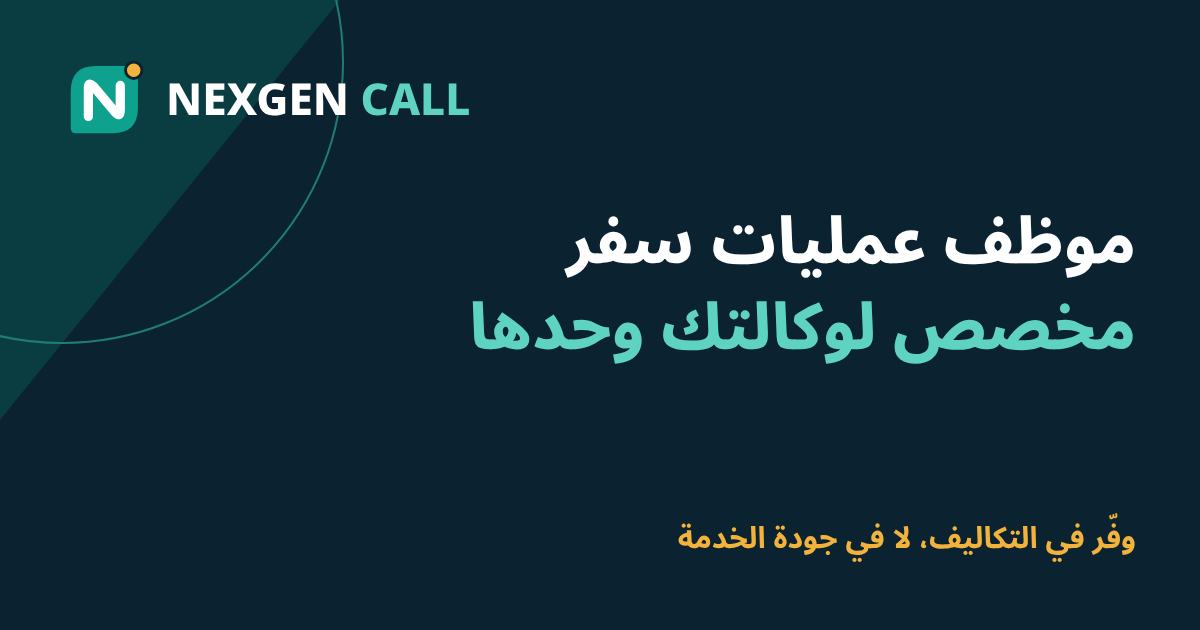
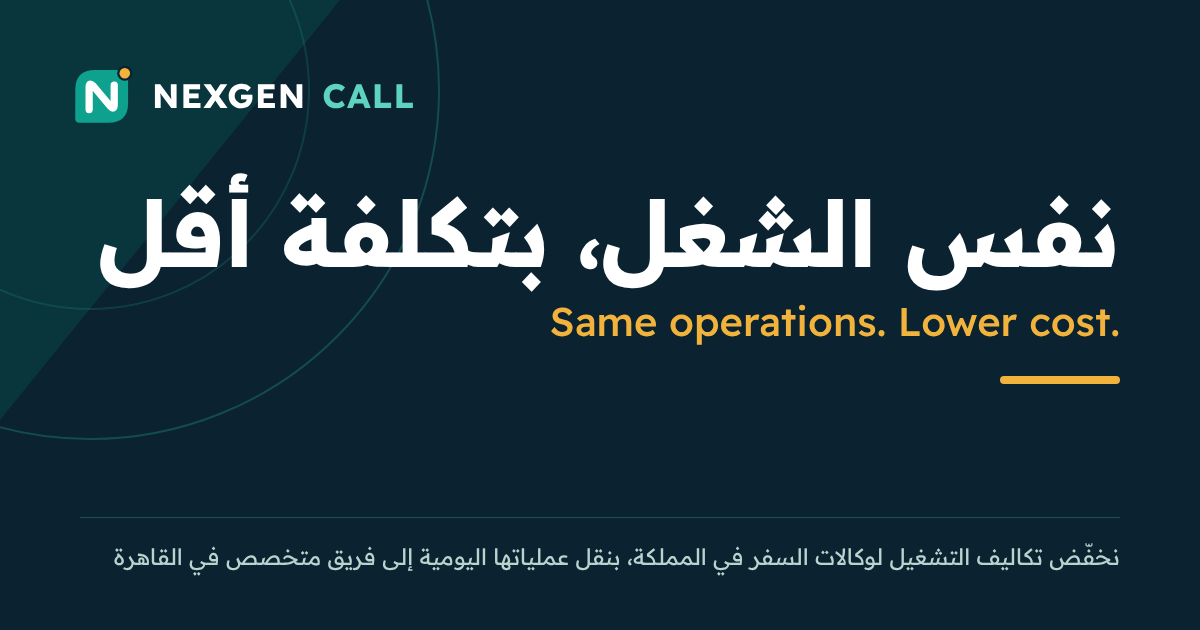
Apply slogan 'Same operations. Lower cost.' and company goal; new share image
Claude-Session: https://claude.ai/code/session_01M4KTniXxeey84DMqoAVx7F

diff --git a/index.html b/index.html
@@ -3,13 +3,13 @@
 <head>
 <meta charset="utf-8">
 <meta name="viewport" content="width=device-width, initial-scale=1">
-<title>NEXGEN CALL | موظف عمليات سفر مخصص لوكالتك</title>
-<meta name="description" content="NEXGEN CALL شريك تشغيل لوكالات السفر السعودية: موظف عمليات سفر مخصص لوكالتك يعمل على أنظمتك، مع إشراف ومراجعة جودة وتقارير وبديل جاهز. احسب التكلفة الحقيقية لموظفك الحالي.">
+<title>NEXGEN CALL | نفس الشغل، بتكلفة أقل</title>
+<meta name="description" content="NEXGEN CALL | نفس الشغل، بتكلفة أقل. نخفّض تكاليف التشغيل لوكالات السفر في المملكة، بنقل عملياتها اليومية إلى فريق متخصص في القاهرة، مع بقاء القرار في يد الوكالة. موظف ثابت مخصص لوكالتك في القاهرة للإصدار والاسترداد والفنادق وما بعد البيع.">
 <link rel="canonical" href="https://travelhh.github.io/nexgen-call/">
 <meta name="robots" content="index,follow">
 <meta name="keywords" content="تعهيد عمليات السفر, موظف تذاكر عن بعد, إصدار تذاكر, أماديوس, وكالات السفر السعودية, back office, ticketing outsourcing, travel BPO, NEXGEN CALL">
-<meta property="og:title" content="NEXGEN CALL | موظف عمليات سفر مخصص لوكالتك">
-<meta property="og:description" content="تذاكر الطيران، الفنادق، ما بعد البيع والمكتب الخلفي لوكالات السفر السعودية. وفّر في التكاليف، لا في جودة الخدمة.">
+<meta property="og:title" content="NEXGEN CALL | نفس الشغل، بتكلفة أقل">
+<meta property="og:description" content="نخفّض تكاليف التشغيل لوكالات السفر في المملكة، بنقل عملياتها اليومية إلى فريق متخصص في القاهرة، مع بقاء القرار في يد الوكالة.">
 <meta property="og:image" content="https://travelhh.github.io/nexgen-call/og.png">
 <meta property="og:url" content="https://travelhh.github.io/nexgen-call/">
 <meta property="og:type" content="website">
@@ -17,10 +17,10 @@
 <meta property="og:locale:alternate" content="en_US">
 <meta property="og:site_name" content="NEXGEN CALL">
 <meta name="twitter:card" content="summary_large_image">
-<meta name="twitter:title" content="NEXGEN CALL | موظف عمليات سفر مخصص لوكالتك">
+<meta name="twitter:title" content="NEXGEN CALL | نفس الشغل، بتكلفة أقل">
 <meta name="twitter:image" content="https://travelhh.github.io/nexgen-call/og.png">
 <meta name="theme-color" content="#0B2230">
-<script type="application/ld+json">{"@context":"https://schema.org","@type":"ProfessionalService","name":"NEXGEN CALL","alternateName":["نكست جن كول","NexCall Services"],"url":"https://travelhh.github.io/nexgen-call/","logo":"https://travelhh.github.io/nexgen-call/logo.svg","image":"https://travelhh.github.io/nexgen-call/og.png","description":"Managed travel operations partner for Saudi travel agencies: dedicated Egypt-based specialists for ticketing, reissues and refunds, hotel bookings, after-sales and back office.","telephone":"+201013749484","email":"nexgencallco@gmail.com","address":{"@type":"PostalAddress","addressLocality":"6th of October City","addressRegion":"Giza","addressCountry":"EG"},"areaServed":{"@type":"Country","name":"Saudi Arabia"},"availableLanguage":["ar","en"],"openingHoursSpecification":{"@type":"OpeningHoursSpecification","dayOfWeek":["Saturday","Sunday","Monday","Tuesday","Wednesday","Thursday"],"opens":"09:00","closes":"17:00"},"sameAs":["https://www.linkedin.com/company/nexgen-call/"],"knowsAbout":["Amadeus GDS","NDC","Air ticketing","Refunds and reissues","Hotel reservations","Travel back office"]}</script>
+<script type="application/ld+json">{"@context":"https://schema.org","@type":"ProfessionalService","name":"NEXGEN CALL","slogan":"Same operations. Lower cost.","alternateName":["نكست جن كول","NexCall Services"],"url":"https://travelhh.github.io/nexgen-call/","logo":"https://travelhh.github.io/nexgen-call/logo.svg","image":"https://travelhh.github.io/nexgen-call/og.png","description":"Same operations. Lower cost. NEXGEN CALL cuts operating costs for Saudi travel agencies by moving their daily operations to a dedicated specialist in its Cairo team: ticketing, reissues and refunds, hotel bookings, after-sales and back office.","telephone":"+201013749484","email":"nexgencallco@gmail.com","address":{"@type":"PostalAddress","addressLocality":"6th of October City","addressRegion":"Giza","addressCountry":"EG"},"areaServed":{"@type":"Country","name":"Saudi Arabia"},"availableLanguage":["ar","en"],"openingHoursSpecification":{"@type":"OpeningHoursSpecification","dayOfWeek":["Saturday","Sunday","Monday","Tuesday","Wednesday","Thursday"],"opens":"09:00","closes":"17:00"},"sameAs":["https://www.linkedin.com/company/nexgen-call/"],"knowsAbout":["Amadeus GDS","NDC","Air ticketing","Refunds and reissues","Hotel reservations","Travel back office"]}</script>
 <link rel="icon" href="logo.svg" type="image/svg+xml">
 <link rel="preconnect" href="https://fonts.googleapis.com"><link rel="preconnect" href="https://fonts.gstatic.com" crossorigin>
 <link href="https://fonts.googleapis.com/css2?family=Readex+Pro:wght@300;500;700&family=IBM+Plex+Sans+Arabic:wght@400;500;600&family=IBM+Plex+Mono:wght@500;600&display=swap" rel="stylesheet">
@@ -66,6 +66,8 @@ header.scrolled{border-bottom-color:var(--line)}
 .hero-grid{display:grid;grid-template-columns:minmax(0,1fr) minmax(0,1.08fr);gap:56px;align-items:center}
 .hero h1{font-size:clamp(38px,5.2vw,64px);font-weight:700;line-height:1.2;max-width:13ch}
 .hero .lede{font-size:20px;margin-top:22px}
+.h1-en{font-family:var(--disp);font-weight:500;font-size:clamp(19px,2vw,24px);color:var(--teal-d);margin-top:10px;direction:ltr;text-align:right}
+.goal{padding:0 0 8px}.goal p{font-family:var(--disp);font-weight:500;font-size:clamp(21px,2.4vw,28px);line-height:1.6;max-width:44ch;border-right:4px solid var(--gold);padding:6px 22px 6px 0;color:var(--ink)}
 .hero-cta{display:flex;flex-wrap:wrap;gap:12px;margin-top:32px}
 .clock{display:flex;align-items:center;gap:14px;margin-top:34px;padding-top:22px;border-top:1px solid var(--line);color:var(--ink2);font-size:15.5px}
 .clock b{font-family:var(--mono);font-weight:600;color:var(--ink);font-size:17px}
@@ -285,8 +287,9 @@ footer a{text-decoration:none}footer a:hover{color:#fff}
 <main>
 <section class="hero"><div class="wrap hero-grid">
  <div>
-  <h1>موظف عمليات سفر مخصص لوكالتك وحدها</h1>
-  <p class="lede">يعمل على أنظمة وكالتك وبصلاحياتها: الحجز والإصدار وإعادة الإصدار والاسترداد والفنادق وما بعد البيع. ومعه مشرف، ومراجعة جودة، وتقارير، وبديل مدرّب جاهز.</p>
+  <h1>نفس الشغل، بتكلفة أقل</h1>
+  <p class="h1-en" lang="en">Same operations. Lower cost.</p>
+  <p class="lede">ننقل عمليات وكالتك اليومية إلى موظف ثابت مخصص لكم في فريقنا بالقاهرة، يعمل على أنظمتكم: الحجز والإصدار وإعادة الإصدار والاسترداد والفنادق وما بعد البيع. ومعه مشرف ومراجعة جودة وبديل مدرّب، ويبقى القرار المالي بيدكم.</p>
   <div class="hero-cta">
    <a class="btn btn-gold" href="#quote">اطلب عرضًا لوكالتك</a>
    <a class="btn btn-line" href="#calc">احسب تكلفة موظفك الحالي</a>
@@ -301,6 +304,8 @@ footer a{text-decoration:none}footer a:hover{color:#fff}
   <div class="board-foot"><span>كل طلب له رقم وسجل من الاستلام حتى الإغلاق</span><span>عرض توضيحي</span></div>
  </div>
 </div></section>
+
+<section class="goal" aria-label="هدف الشركة"><div class="wrap"><p>نخفّض تكاليف التشغيل لوكالات السفر في المملكة، بنقل عملياتها اليومية إلى فريق متخصص في القاهرة، مع بقاء القرار في يد الوكالة.</p></div></section>
 
 <section class="band" id="problem"><div class="wrap">
  <div class="sec-head">
@@ -450,8 +455,8 @@ footer a{text-decoration:none}footer a:hover{color:#fff}
 
 <section id="en" class="en" lang="en"><div class="wrap en-grid">
  <div>
-  <h2>A dedicated travel operations specialist for your agency</h2>
-  <p>NEXGEN CALL is a managed travel operations partner for Saudi travel agencies. Each agency gets one specialist working only for it, on its own systems and accounts, backed by a supervisor, weekly quality review, regular reporting and a trained backup.</p>
+  <h2>Same operations. Lower cost.</h2>
+  <p>NEXGEN CALL cuts operating costs for Saudi travel agencies by moving their daily operations to Cairo. Each agency gets a fixed, dedicated specialist in our Cairo team, working on the agency's own systems and accounts, backed by a supervisor, weekly quality review, regular reporting and a trained backup.</p>
   <p>Every financial or irreversible action follows your written approval matrix, and every request is numbered and logged from receipt to closure.</p>
   <p>Email us at <a href="mailto:nexgencallco@gmail.com">nexgencallco@gmail.com</a> or send a request through the form above.</p>
   <p><a class="btn btn-ink" href="#quote" style="margin-top:10px">Request a proposal</a></p>
@@ -469,7 +474,7 @@ footer a{text-decoration:none}footer a:hover{color:#fff}
 
 <footer><div class="wrap">
  <div class="foot">
-  <div><a class="brand" href="#top"><img src="logo.svg" alt="" width="32" height="32">NEXGEN <span>CALL</span></a><p style="margin-top:12px;max-width:44ch">وفّر في تكاليف التشغيل، ولا تتنازل عن جودة الخدمة.</p></div>
+  <div><a class="brand" href="#top"><img src="logo.svg" alt="" width="32" height="32">NEXGEN <span>CALL</span></a><p style="margin-top:12px;max-width:44ch;color:#fff;font-family:var(--disp);font-weight:500;font-size:18px">نفس الشغل، بتكلفة أقل</p><p style="max-width:44ch" lang="en" dir="ltr">Same operations. Lower cost.</p></div>
   <nav class="foot-links" aria-label="روابط التذييل"><a href="#services">الخدمات</a><a href="#calc">حاسبة التكلفة</a><a href="#faq">الأسئلة</a><a href="#quote">اطلب عرضًا</a><a href="mailto:nexgencallco@gmail.com" class="ltr">nexgencallco@gmail.com</a><a href="https://www.linkedin.com/company/nexgen-call/" target="_blank" rel="noopener">LinkedIn</a></nav>
  </div>
  <div class="legal"><span>نكست كول للخدمات (NexCall Services)، سجل تجاري 12330، مدينة السادس من أكتوبر، الجيزة، مصر</span><span class="ltr">© 2026 NEXGEN CALL</span></div>
